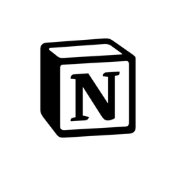
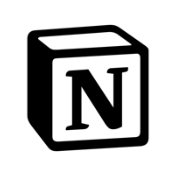
any site: stronger float in every motion setting, frameless centred message field, agent block in three layers, larger Cursor/Notion glyphs, legal lines moved to the footer

diff --git a/any/assets/css/site.css b/any/assets/css/site.css
@@ -44,23 +44,24 @@ h1{font-size:clamp(40px,5.6vw,78px);line-height:1.03;font-weight:600;letter-spac
 .msg.out{align-self:flex-end;background:var(--paper);color:var(--ink);border-bottom-right-radius:6px;animation:rise .55s cubic-bezier(.2,.8,.2,1) both}
 .msg.old{animation:none}
 @keyframes rise{from{opacity:0;transform:translateY(26px) scale(.94)}}
-.field{position:relative;display:flex;align-items:flex-end;gap:10px;margin:0 12px 12px;padding:11px 8px 8px 16px;min-height:48px;border-radius:24px;background:rgba(0,0,0,.24);box-shadow:0 0 0 1px rgba(255,255,255,.08);transition:box-shadow .35s}
-.stage.focus .field{box-shadow:0 0 0 1.5px rgba(255,255,255,.55),0 0 28px rgba(157,188,255,.22)}
-.field-text{flex:1;min-height:21px;padding-bottom:3px;font-size:15px;line-height:1.4;font-weight:500}
+.field{position:relative;display:flex;align-items:center;gap:12px;margin:0 12px 12px;padding:7px 7px 7px 18px;min-height:50px;border-radius:25px;background:rgba(255,255,255,.07);transition:background .35s,box-shadow .35s}
+.stage.focus .field{background:rgba(255,255,255,.1);box-shadow:0 0 0 1px rgba(157,188,255,.45),0 0 26px rgba(157,188,255,.18)}
+.field-text{flex:1;min-width:0;margin:0;padding:4px 0;font-size:15px;line-height:1.4;font-weight:500}
 .field-text:empty::before{content:attr(data-ph);font-weight:400;color:#8f8f8c}
 .stage.focus .field-text::after{content:"";display:inline-block;width:2px;height:1.05em;margin-left:2px;vertical-align:-.15em;background:#9dbcff;animation:caret 1s steps(1) infinite}
 .stage.focus .field-text:empty::before{content:none}
 @keyframes caret{50%{opacity:0}}
 .field-text .w{display:inline-block;animation:word .42s cubic-bezier(.2,.8,.2,1) both}
 @keyframes word{from{opacity:0;filter:blur(5px);transform:translateY(.35em)}}
-.send{flex:none;display:grid;place-items:center;width:30px;height:30px;border-radius:50%;background:rgba(255,255,255,.14);color:#8f8f8c;transition:background .25s,color .25s,transform .25s}
-.send svg{width:15px;height:15px}
+.send{flex:none;align-self:flex-end;display:grid;place-items:center;width:36px;height:36px;border-radius:50%;background:rgba(255,255,255,.14);color:#8f8f8c;transition:background .25s,color .25s,transform .25s}
+.send svg{width:16px;height:16px}
 .field.ready .send{background:var(--paper);color:var(--ink)}
 .field.go .send{transform:scale(.86)}
-.bud{position:absolute;left:-1%;bottom:-1%;z-index:2;height:74%;aspect-ratio:794/986;filter:drop-shadow(0 28px 34px rgba(0,0,0,.45));animation:hover 6.5s ease-in-out infinite}
-@keyframes hover{0%,100%{translate:0 0;rotate:0deg}50%{translate:0 -12px;rotate:-2.5deg}}
-.win-float{position:absolute;inset:0;animation:drift 8s ease-in-out -2.5s infinite}
-@keyframes drift{0%,100%{translate:0 0}50%{translate:0 -8px}}
+.bud{position:absolute;left:-1%;bottom:-1%;z-index:2;height:74%;aspect-ratio:794/986;filter:drop-shadow(0 28px 34px rgba(0,0,0,.45));animation:hover 7s ease-in-out infinite}
+@keyframes hover{0%,100%{translate:0 0;rotate:0deg}30%{translate:3px -14px;rotate:-3deg}65%{translate:-2px -22px;rotate:1.5deg}}
+.win-float{position:absolute;inset:0;animation:drift 9s ease-in-out -3s infinite}
+.win{box-shadow:0 30px 60px rgba(0,0,0,.34)}
+@keyframes drift{0%,100%{translate:0 0;rotate:0deg}35%{translate:0 -14px;rotate:.5deg}70%{translate:0 -6px;rotate:-.4deg}}
 .bud img{display:block;width:100%;height:100%;transform-origin:20% 70%}
 .bud.tap img{animation:dip .5s cubic-bezier(.3,.7,.3,1)}
 @keyframes dip{35%{transform:translateY(2px) scale(.988)}}
@@ -86,7 +87,7 @@ h1{font-size:clamp(40px,5.6vw,78px);line-height:1.03;font-weight:600;letter-spac
 .aside{text-align:center;font-size:13px;color:var(--mute);padding:6px 16px 0}
 .title{font-size:clamp(30px,4vw,50px);line-height:1.08;font-weight:600;letter-spacing:-.026em;text-wrap:balance}
 .agent{max-width:1120px;margin:auto;padding:clamp(64px,8vw,104px) clamp(16px,4vw,40px)}
-.agent-head{max-width:720px;margin:0 auto clamp(26px,3vw,36px);text-align:center}
+.agent-head{max-width:720px;margin:0 auto clamp(14px,2vw,22px);text-align:center}
 .eyebrow{margin-bottom:14px;font-size:14px;color:var(--mute)}
 .tabs{display:flex;width:max-content;margin:0 auto;gap:2px;padding:3px;border-radius:999px;background:rgba(0,0,0,.24)}
 .tabs button{padding:6px 14px;border:0;border-radius:999px;background:none;color:#cfcfcc;font:500 13px var(--font);cursor:pointer;transition:background .18s,color .18s}
@@ -126,7 +127,7 @@ h1{font-size:clamp(40px,5.6vw,78px);line-height:1.03;font-weight:600;letter-spac
 }
 @keyframes fade{from{opacity:0}}
 @keyframes blink{40%{opacity:1}100%{opacity:0}}
-@media (prefers-reduced-motion:reduce){html{scroll-behavior:auto}.rings i,.wave b,.bud.tap img{animation:none!important}.bud{animation-duration:10s}.win-float{animation:none}.win,.win.out{transform:none;filter:none;transition:opacity .5s ease}.msg.out:not(.old),.field-text .w{animation:fade .4s ease both!important}.bud.tap .pinch i,.bud.tap .touch{animation:blink .75s ease!important;transform:none}}
+@media (prefers-reduced-motion:reduce){html{scroll-behavior:auto}.rings i,.wave b,.bud.tap img{animation:none!important}.win,.win.out{transform:none;filter:none;transition:opacity .5s ease}.msg.out:not(.old),.field-text .w{animation:fade .4s ease both!important}.bud.tap .pinch i,.bud.tap .touch{animation:blink .75s ease!important;transform:none}}
 @media (prefers-reduced-transparency:reduce){.glass{-webkit-backdrop-filter:none;backdrop-filter:none;background:#333}}
 .credit{margin-top:8px;font-size:12px;color:#8a8a87}.credit a{color:inherit}
 
@@ -138,7 +139,8 @@ h1{font-size:clamp(40px,5.6vw,78px);line-height:1.03;font-weight:600;letter-spac
 .orb::after{content:"";position:absolute;inset:0;border-radius:50%;background:radial-gradient(circle at 35% 30%,rgba(255,255,255,.85),rgba(255,255,255,0) 46%)}
 @keyframes turn{to{transform:rotate(-360deg)}}
 @keyframes breathe{50%{transform:scale(1.07)}}
-.agent-stage{position:relative;max-width:720px;margin:clamp(22px,3vw,30px) auto 0;padding-top:30px}
+.agent-stage{position:relative;max-width:720px;margin:0 auto;padding-top:30px}
+.agent .tabs{margin-top:clamp(22px,3vw,30px)}
 .aura{position:absolute;inset:40px 6% -10px;border-radius:40px;background:conic-gradient(from var(--spin),#9e73ff,#4d8cff,#ff73bf,#9e73ff);filter:blur(42px);opacity:0;transition:opacity .8s;animation:aura 6s linear infinite}
 @keyframes aura{to{--spin:360deg}}
 .agent-stage[data-state=think] .aura,.agent-stage[data-state=listen] .aura{opacity:.42}
@@ -148,7 +150,8 @@ h1{font-size:clamp(40px,5.6vw,78px);line-height:1.03;font-weight:600;letter-spac
 .agent-stage[data-state=done] .said{animation:none;-webkit-text-fill-color:#e8e8e5}
 @keyframes sweep{from{background-position:100% 0}to{background-position:-50% 0}}
 .agent-win{position:relative;min-height:250px;padding:34px clamp(20px,3vw,34px) 26px;border-radius:30px;text-align:left}
-.agent-bar{font-size:13px;color:var(--mute);margin-bottom:12px}
+.agent-bar{display:flex;justify-content:space-between;gap:12px;font-size:13px;color:var(--mute);margin-bottom:12px}
+.agent-bar kbd{font-size:11px;opacity:.8}
 .agent-body{font-size:clamp(17px,1.7vw,20px);line-height:1.45;font-weight:500;white-space:pre-line}
 .agent-body .w{display:inline-block;animation:word .42s cubic-bezier(.2,.8,.2,1) both;white-space:pre}
 .agent-body .sel{background:rgba(77,140,255,.32);border-radius:4px;box-decoration-break:clone;-webkit-box-decoration-break:clone;padding:0 2px}

diff --git a/any/index.html b/any/index.html
@@ -60,22 +60,18 @@
 
   <section class="agent" id="agent">
     <div class="agent-head">
-      <p class="eyebrow"><span class="orb" aria-hidden="true"><i></i></span><span data-en="Agent">Агент</span> · <kbd>fn</kbd> + <kbd>⌃</kbd></p>
       <h2 class="title" data-en="Say the task. The answer lands in your text field.">Скажите задачу. Ответ появится в поле ввода.</h2>
+    </div>
+    <div class="agent-stage" id="agent-stage" data-state="listen" aria-hidden="true">
+      <div class="aura"></div>
+      <div class="notch"><span class="orb"><i></i></span><span class="said" id="agent-said"></span></div>
+      <div class="agent-win glass"><p class="agent-bar"><span id="agent-title"></span><span><kbd>fn</kbd> + <kbd>⌃</kbd></span></p><p class="agent-body" id="agent-body"></p></div>
     </div>
     <div class="tabs" role="tablist" aria-label="Примеры" data-en-aria="Examples" id="agent-tabs">
       <button type="button" role="tab" aria-selected="true" data-en="Write">Написать</button>
       <button type="button" role="tab" aria-selected="false" data-en="Look up">Найти</button>
       <button type="button" role="tab" aria-selected="false" data-en="Edit">Поправить</button>
     </div>
-    <div class="agent-stage" id="agent-stage" data-state="listen" aria-hidden="true">
-      <div class="aura"></div>
-      <div class="notch"><span class="orb"><i></i></span><span class="said" id="agent-said"></span></div>
-      <div class="agent-win glass"><p class="agent-bar" id="agent-title"></p><p class="agent-body" id="agent-body"></p></div>
-    </div>
-    <ul class="chips">
-      <li data-en="Writes">Пишет</li><li data-en="Looks things up online">Ищет в сети</li><li data-en="Edits what you select">Правит выделенное</li><li data-en="Works offline">Работает офлайн</li>
-    </ul>
   </section>
 
   <section class="light panel">
@@ -141,9 +137,8 @@
     </div>
     <div class="cta">
       <a class="btn btn-lg" href="https://github.com/Gleb4442/any-releases/releases/download/v1.0.0/any-1.0.0.dmg" data-en="Download free">Скачать бесплатно</a>
-      <p class="fine" data-en="30 days free, no card · You buy inside the app">30 дней без карты · Покупка внутри приложения</p>
+      <p class="fine" data-en="You buy inside the app, whenever you decide.">Покупка внутри приложения, когда решите.</p>
     </div>
-    <p class="legal" data-en-html="Payments are processed by <a href='https://creem.io' target='_blank' rel='noopener'>Creem</a> (Merchant of Record) · <a href='/any/terms'>Terms</a> · <a href='/any/refund'>Refund Policy</a><br>Sexually explicit content is not allowed in any, including voice commands and AI text drafting (<a href='/any/terms'>Terms, §5</a>).">Платежи обрабатывает <a href="https://creem.io" target="_blank" rel="noopener">Creem</a> (Merchant of Record) · <a href="/any/terms">Условия</a> · <a href="/any/refund">Правила возврата</a><br>Контент сексуального характера в any запрещён, включая голосовые команды и составление текста с ИИ (<a href="/any/terms">Условия, §5</a>).</p>
   </section>
 </main>
 
@@ -156,6 +151,7 @@
     <a href="https://t.me/gennetysupport" target="_blank" rel="noopener" data-en="Support">Поддержка</a>
     <a href="/any/third-party-notices.txt" data-en="Licenses">Лицензии</a>
   </nav>
+  <p data-en-html="Payments are processed by <a href='https://creem.io' target='_blank' rel='noopener'>Creem</a> (Merchant of Record). Sexually explicit content is not allowed in any, including voice commands and AI text drafting (<a href='/any/terms'>Terms, §5</a>).">Платежи обрабатывает <a href="https://creem.io" target="_blank" rel="noopener">Creem</a> (Merchant of Record). Контент сексуального характера в any запрещён, включая голосовые команды и составление текста с ИИ (<a href="/any/terms">Условия, §5</a>).</p>
   <p data-en-html="Operated by Hleb Hosha (individual), Ukraine · <a href='mailto:main@sverkaus.com'>main@sverkaus.com</a>">Оператор: Глеб Хоша (Hleb Hosha), физическое лицо, Украина · <a href="mailto:main@sverkaus.com">main@sverkaus.com</a></p>
   <p data-en="AirPods and Mac are trademarks of Apple Inc. any is not affiliated with Apple or the other companies shown. Their names and icons belong to their owners and only indicate apps any can type into.">AirPods и Mac — товарные знаки Apple Inc. any не связан с Apple и другими показанными компаниями. Их названия и значки принадлежат владельцам и лишь показывают приложения, в которых any может печатать.</p>
   <p class="credit" data-en-html="AirPods Pro 3D model: <a href='https://sketchfab.com/3d-models/airpods-pro-with-magsafe-charging-case-ios15-52e5f28b37f94f05b6c0768773137689' target='_blank' rel='noopener'>polyman</a>, <a href='https://creativecommons.org/licenses/by/4.0/' target='_blank' rel='noopener'>CC BY 4.0</a>, rendered and cropped by us.">3D-модель AirPods Pro: <a href="https://sketchfab.com/3d-models/airpods-pro-with-magsafe-charging-case-ios15-52e5f28b37f94f05b6c0768773137689" target="_blank" rel="noopener">polyman</a>, <a href="https://creativecommons.org/licenses/by/4.0/" target="_blank" rel="noopener">CC BY 4.0</a>, отрисована и обрезана нами.</p>
